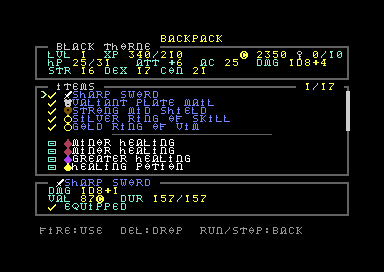
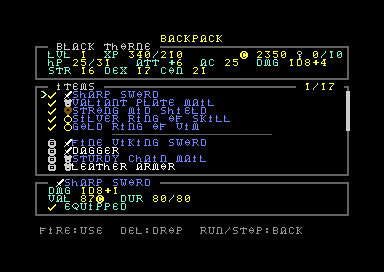
Liste: equipaggiamento, zaino, cintura
Richiesta del committente: nell'inventario (e nel baule del piano, che
usa la stessa lista) e nella lista "yours" dell'alchimista la cintura
passa in fondo, dopo lo zaino. Nell'acquisto di una pozione il cursore
va sul posto della cintura contando dalla fine della lista (sl_n - 4,
tolto SH_BELT0). Screenshot inventario e alchimista rifatti.

Test ORDER-10..11 (sanity); QCH2-10..11 passati in regression.
LOOT-10 fallisce come prima (noto).

Changed region(s): [[0.125, 0.5, 0.5312, 0.6471], [0.4062, 0.7059, 0.5312, 0.7353]]

diff --git a/tests/sanity/listorder/cases.py b/tests/sanity/listorder/cases.py
@@ -1,0 +1,61 @@
+"""Order of the lists (24/11, owner's request): equipment, pack, belt in the inventory and in the alchemist's list "yours"
+(src/game/inv.asm iv_sg, src/menu/shop.asm sh_segs). Every entry of the list is resolved with sl_get (slot code sl_sl:
+pack 0..7, equipment PACK_N.., belt $20+n, separator $ff): the kinds must come in that order. One VICE session, the village."""
+from c64test import test, check
+from lib.c64 import Game
+from lib.play import new_game, key, K_I, fire_to, find
+
+CHAIN = True
+
+
+def setup(ctx):
+    g = ctx["g"] = Game()
+    g.to_menu()
+    new_game(g); g.frames(3)
+    L = g.L
+    g.poke(L["c_beltt"], L["I_POTR"], L["I_POTY"], 0, 0)
+    g.poke(L["c_pack"], L["I_SCROLL"]); g.poke(L["c_packb"], 2)
+
+
+def teardown(ctx):
+    if "g" in ctx: ctx["g"].close()
+
+
+def kinds(g, lst, pack_n):
+    """kinds of the entries of list lst in order: 'e' equipment, 'p' pack, 'b' belt (separators skipped)"""
+    L = g.L
+    out = []
+    for i in range(g.b(L["sl_n"] + lst)):
+        r = g.call_keep(L["sl_get"], regs="a=%02x,x=%02x" % (i, lst))
+        s = g.b(L["sl_sl"])
+        if r["c"] or s == 0xff:
+            continue
+        out.append("b" if 0x20 <= s < 0x40 else "e" if s >= pack_n else "p")
+    return "".join(out)
+
+
+def ordered(k):
+    return k == "".join(sorted(k, key="epb".index))
+
+
+@test("ORDER-10", "inventory: equipment, then pack, then belt (the belt potions are the last entries)")
+def inv(ctx):
+    g = ctx["g"]; L = g.L
+    key(g, K_I, 3)
+    k = kinds(g, 0, L["PACK_N"])
+    check("e" in k and "p" in k and k.endswith("bb") and ordered(k), "inventory order %r" % k)
+    g.run_stop(); g.frames(3)
+    check(g.in_game(), "RUN/STOP does not close the inventory")
+
+
+@test("ORDER-11", "alchemist, list 'yours': rings worn, pack, belt (4 slots, last; the '>' on a belt slot when buying a potion: SHOP-BELT-10)")
+def alch(ctx):
+    g = ctx["g"]; L = g.L
+    door = find(g, L["T_DALCH"])
+    check(door, "no alchemist door on the map")
+    fire_to(g, door[0][0], door[0][1] + 1)
+    check(g.b(L["sh_mask"]) != 0, "the alchemist does not open")
+    k = kinds(g, 1, L["PACK_N"])
+    check(k.endswith("bbbb") and "p" in k and ordered(k), "alchemist order %r" % k)
+    g.run_stop(); g.frames(2)
+    check(g.in_game(), "RUN/STOP does not close the shop")

diff --git a/docs/wiki/interfaccia.md b/docs/wiki/interfaccia.md
@@ -168,9 +168,9 @@ Tutte spengono lo split raster (`ui_begin`), usano il font della UI (`$B800`) e 
 
 | Schermata | Routine | Contenuto |
 |---|---|---|
-| Inventario | `ui_inventory` → `iv_main` (segmento CORE, `src/game/inv.asm`) | 21/11 (branch `liste-menu`, prototipi approvati dal committente): titolo "backpack" (riga 0). **Statistiche** (righe 1-5, titolo = nome del PG): lvl/xp/oro/chiavi, hp/att/ac/dmg, str/dex/con. **Lista "items"** a scorrimento (righe 7-16, `slist.asm`): una voce per riga, prima l'equipaggiamento (arma, armatura, scudo, due anelli; segno ✓ giallo `CH_EQ`), poi la cintura (4 posti, segno `CH_BELT`), poi lo zaino (8 posti, segno `CH_PACK`), separati da una riga sottile (`CH_SEP`); posto libero = "-"; barra di scorrimento sul bordo destro (`CH_THUMB`) e posizione " n/N " nel titolo. **Oggetto selezionato** (righe 18-22): icona e nome nel titolo, poi proprietà (`it_prim`, `it_sec`: requisito di FOR "str N" se non raggiunto), valore e durabilità, provenienza ("equipped", "in belt") o, per lo zaino, il confronto "you: ..." con l'oggetto indossato della stessa categoria. Fire usa o indossa (la cintura si guarda soltanto: posizione delle pozioni in futuro), DEL getta, I o RUN/STOP chiudono |
+| Inventario | `ui_inventory` → `iv_main` (segmento CORE, `src/game/inv.asm`) | 21/11 (branch `liste-menu`, prototipi approvati dal committente): titolo "backpack" (riga 0). **Statistiche** (righe 1-5, titolo = nome del PG): lvl/xp/oro/chiavi, hp/att/ac/dmg, str/dex/con. **Lista "items"** a scorrimento (righe 7-16, `slist.asm`): una voce per riga, prima l'equipaggiamento (arma, armatura, scudo, due anelli; segno ✓ giallo `CH_EQ`), poi lo zaino (8 posti, segno `CH_PACK`), poi la cintura (4 posti, segno `CH_BELT`; 24/11, committente: prima veniva prima dello zaino), separati da una riga sottile (`CH_SEP`); posto libero = "-"; barra di scorrimento sul bordo destro (`CH_THUMB`) e posizione " n/N " nel titolo. **Oggetto selezionato** (righe 18-22): icona e nome nel titolo, poi proprietà (`it_prim`, `it_sec`: requisito di FOR "str N" se non raggiunto), valore e durabilità, provenienza ("equipped", "in belt") o, per lo zaino, il confronto "you: ..." con l'oggetto indossato della stessa categoria. Fire usa o indossa (la cintura si guarda soltanto: posizione delle pozioni in futuro), DEL getta, I o RUN/STOP chiudono |
 | Oggetto selezionato | `iv_sel` (segmento CORE) | 21/11: in tutte le schermate di oggetti (inventario, negozi, locanda, baule del piano), righe 18-22: icona e nome nel titolo, caratteristiche principale e secondaria (`dmg 2d6+3`, `2h pen 1`, requisito "str N" se manca la FOR), valore e durabilità (negozi: solo la durabilità), riga 3 della schermata (`iv_l3`) |
-| Baule del piano | `ui_chest` | 21/11 (liste a scorrimento): titolo "o golden chest o" (moneta ai lati; chest / key chest / golden chest / epic chest); lista **contents** (righe 2-7, gli oggetti del baule; nel titolo l'oro trovato aprendolo), lista **yours** (righe 10-16, come l'inventario: indossati, cintura, zaino), riquadro dell'oggetto con il confronto "you: ...". Fire nella lista contents prende l'oggetto; nell'altra lista si guarda soltanto. Riga 23 i messaggi ("the belt is full.": la pozione resta nel baule; "pack is full.", "max 10 scrolls."); un baule vuoto sparisce. Chiuso: "it is locked. you need a key." |
+| Baule del piano | `ui_chest` | 21/11 (liste a scorrimento): titolo "o golden chest o" (moneta ai lati; chest / key chest / golden chest / epic chest); lista **contents** (righe 2-7, gli oggetti del baule; nel titolo l'oro trovato aprendolo), lista **yours** (righe 10-16, come l'inventario: indossati, zaino, cintura), riquadro dell'oggetto con il confronto "you: ...". Fire nella lista contents prende l'oggetto; nell'altra lista si guarda soltanto. Riga 23 i messaggi ("the belt is full.": la pozione resta nel baule; "pack is full.", "max 10 scrolls."); un baule vuoto sparisce. Chiuso: "it is locked. you need a key." |
 | Negozio | `enter_shop`, `sh_draw` (modulo MENU) | 21/11 (liste a scorrimento): liste **wares** (prezzo pieno a destra) e **gear** (fabbro) / **yours** (alchimista) con il prezzo di vendita e l'oro totale nel titolo, riquadro dell'oggetto con `buy` / `sell` / `repair`; fire = buy (merce), sell (zaino, cintura); R = repair (fabbro); l'indossato non si vende; pozione comprata: scelta del posto della cintura. Dettagli: [Villaggio](villaggio.md#negozi-enter_shop-sh_draw-modulo-menu-dall1111) |
 | Locanda | `ov_stash` (modulo MENU) | 09/11: titolo "inn" fra due boccali (`CH_INN` = 101). 21/11 (liste a scorrimento): liste **yours** (indossati, zaino; oro addosso nel titolo) e **chest** (24 posti; oro del baule nel titolo), riquadro dell'oggetto; fire sposta fra zaino e baule o toglie l'indossato, E indossa; entrando l'oro addosso va nel baule. Dettagli: [Villaggio](villaggio.md#baule-della-locanda-ov_stash-modulo-menu) |
 | Mappa | `ui_minimap` | si chiude con fire, M o RUN/STOP (`mm_close`); mappa esplorata del piano; in basso "chapter 3 level 4" (12/11; nel villaggio, dal 23/11, il **nome del villaggio** del capitolo, es. "aldric's hollow": tabelle `vil_nm`/`vil_lo`/`vil_hi` generate da `tools/build/gen_maps.py` in `town_places.inc` dal `NAME` di `villages.py`, al massimo 21 caratteri, indice `c_chap` - 1; non nell'intestazione TWNc perche' il file del villaggio 1 e' gia' a `TOWN_MAX`. Dal 23/11 niente seed e coordinate del PG, decisione del committente: le coordinate sono nel menu dei trucchi, il seed nel menu di gioco); nel villaggio tutta visibile: strade e piazze in ciano, **fiume in blu** (celle con sola acqua: `mm_wat`), 3 icone (incudine, ampolla, boccale della locanda `CH_INN`; `MI_N`, 09/11: tolto lo scudo dell'armaiolo e la casetta) sopra le porte e la cripta segnata come scala |

diff --git a/docs/wiki/test.md b/docs/wiki/test.md
@@ -163,10 +163,10 @@ Generato con `lab64 test all --md` (rifarlo quando si aggiunge un test).
 
 | ID | Test |
 |---|---|
-| `QCH2-10` | village 2: mama sabine gives step 4 ('the silent village', slay the drowned: 0/12); in level 7 the quest monster type is the drowned (its name in the theme), a drowned killed counts, a bog crawler does not |
-| `QCH2-11` | step 6 (the silver needle) handed in to mama sabine: q_step 6, chapter 3 unlocked (c_unl 3), purse step 2; the boss of chapter 2 dying does not unlock chapter 3 |
+| `ORDER-10` | inventory: equipment, then pack, then belt (the belt potions are the last entries) |
+| `ORDER-11` | alchemist, list 'yours': rings worn, pack, belt (4 slots, last; the '>' on a belt slot when buying a potion: SHOP-BELT-10) |
 
-### regression (311)
+### regression (313)
 
 | ID | Test |
 |---|---|
@@ -408,6 +408,8 @@ Generato con `lab64 test all --md` (rifarlo quando si aggiunge un test).
 | `QENG-10` | K (chain step 1, 8 fallen): only a fallen of chapter 1 counts; the 8th marks the step reached (q_flag bit 1) with 'quest complete' |
 | `QENG-11` | P and B (side a1.4: 10 kills on level 4; a1.3: a named boss of levels 1-4) in q_side slots 2 and 3: counted only on their level, bit 7 when reached |
 | `QENG-12` | IC (chain step 2, Tam's amulet in the named boss chest of level 3, D19): q_chest on level 2 nothing, on level 3 'found: tam's amulet' and the step reached |
+| `QCH2-10` | village 2: mama sabine gives step 4 ('the silent village', slay the drowned: 0/12); in level 7 the quest monster type is the drowned (its name in the theme), a drowned killed counts, a bog crawler does not |
+| `QCH2-11` | step 6 (the silver needle) handed in to mama sabine: q_step 6, chapter 3 unlocked (c_unl 3), purse step 2; the boss of chapter 2 dying does not unlock chapter 3 |
 | `QENG-13` | C and the gate (D4): the stairs to level 5 are sealed until step 3 is taken; q_cboss reaches step 3; other levels always open; chapter 2 (24/11): level 10 sealed until step 6 is taken; chapter 3 open |
 | `QENG-14` | D11: with step 1 taken (fallen), a level of chapter 1 without fallen gets one (the first monster that is not the boss); none on a chapter boss level |
 | `QUEST-10` | village: the NPCs are placed (quest giver + at most one walker per sector, each inside its sector, on free tiles) |

diff --git a/docs/wiki/villaggio.md b/docs/wiki/villaggio.md
@@ -268,8 +268,8 @@ Dal 21/11 (branch `liste-menu`, prototipi approvati dal committente) due **liste
 segmento CORE) e il riquadro dell'oggetto, come nell'inventario; le due liste si percorrono come una sola, A/D saltano alla prima voce dell'altra (22/11, [interfaccia](interfaccia.md)):
 - **wares** (righe 2-7): la merce, una voce per riga, prezzo pieno a destra;
 - **gear** (fabbro) o **yours** (alchimista) (righe 10-16): il fabbro mostra arma, armatura e scudo indossati (spunta), poi
-  armi, armature e scudi dello zaino e i posti liberi `-`; l'alchimista l'anello indossato, la cintura (una pozione per posto),
-  anelli e pergamene dello zaino (la pila: "3 portal scroll") e i posti liberi. A destra il prezzo di vendita. Nel titolo
+  armi, armature e scudi dello zaino e i posti liberi `-`; l'alchimista i due anelli indossati, anelli e pergamene dello
+  zaino (la pila: "3 portal scroll") e, in fondo, la cintura (una pozione per posto; 24/11, committente: equip, zaino, cintura). A destra il prezzo di vendita. Nel titolo
   l'**oro totale** (addosso + baule della locanda, da 100 000 in migliaia con `k`; si paga prima con l'oro addosso e il resto
   dal baule, vedi [Oggetti](oggetti.md#prezzi));
 - **riquadro dell'oggetto** (righe 18-22): icona e nome nel titolo, caratteristiche, durabilità, poi a destra `buy N`,
@@ -305,6 +305,7 @@ flowchart LR
   merce le ha estratte due volte; tornando nel negozio l'assortimento si estrae di nuovo (come prima).
 - (22/11, correzione su segnalazione del committente) Acquisto di una pozione: il `>` della scelta del posto della cintura stava
   una voce sopra il posto scelto (`sh_draw` contava un anello solo prima della cintura; dal 21/11 sono due: `SH_BELT0` = 3).
+  (24/11) Con la cintura in fondo alla lista il primo posto della cintura e' la voce `sl_n` − 4 (`SH_BELT0` tolto).
   Fire metteva la pozione nel posto giusto, ma il cursore sullo schermo indicava quello sopra. Test `SHOP-BELT-10`.
 - (22/11, correzione) Fino al 22/11 la merce non era da 3 a 8 oggetti: in `shop_roll` lo `stx shp_cnt` non tocca i flag e il
   `bne` dopo vedeva lo Z del `dec`, sempre 1, quindi `shp_k` diventava la dimensione del pool filtrato (8 voci piene e, con un
